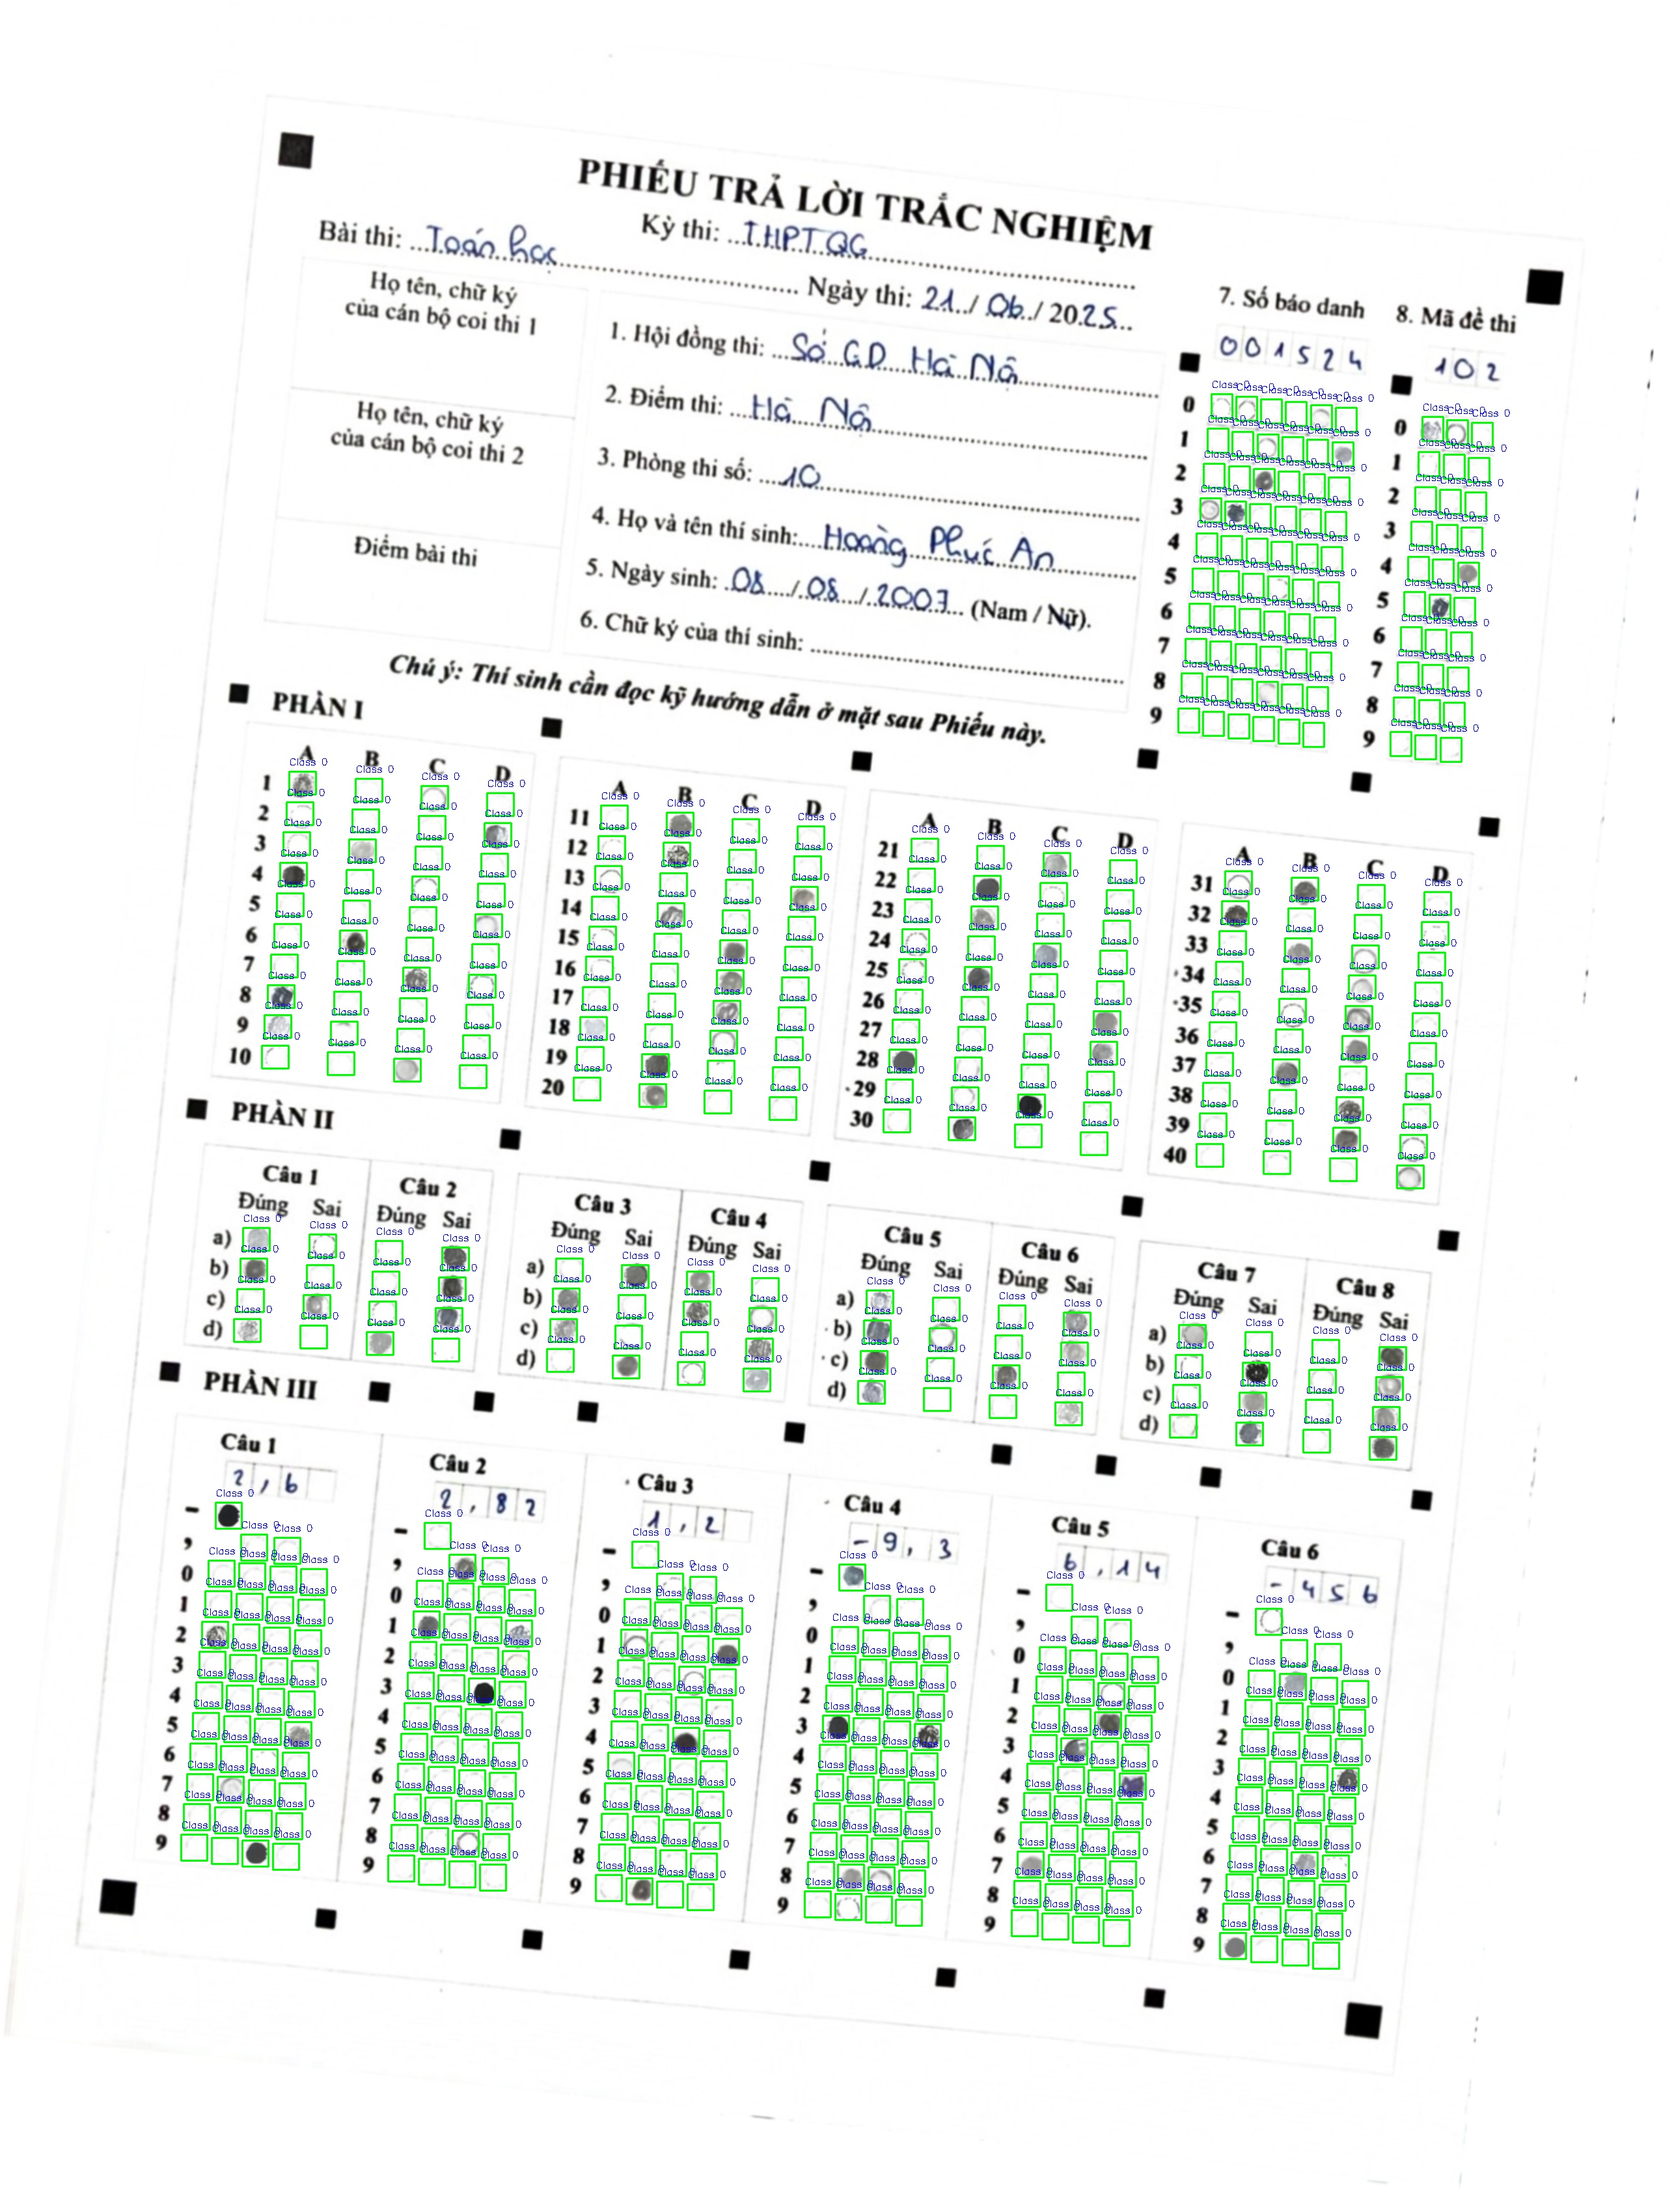
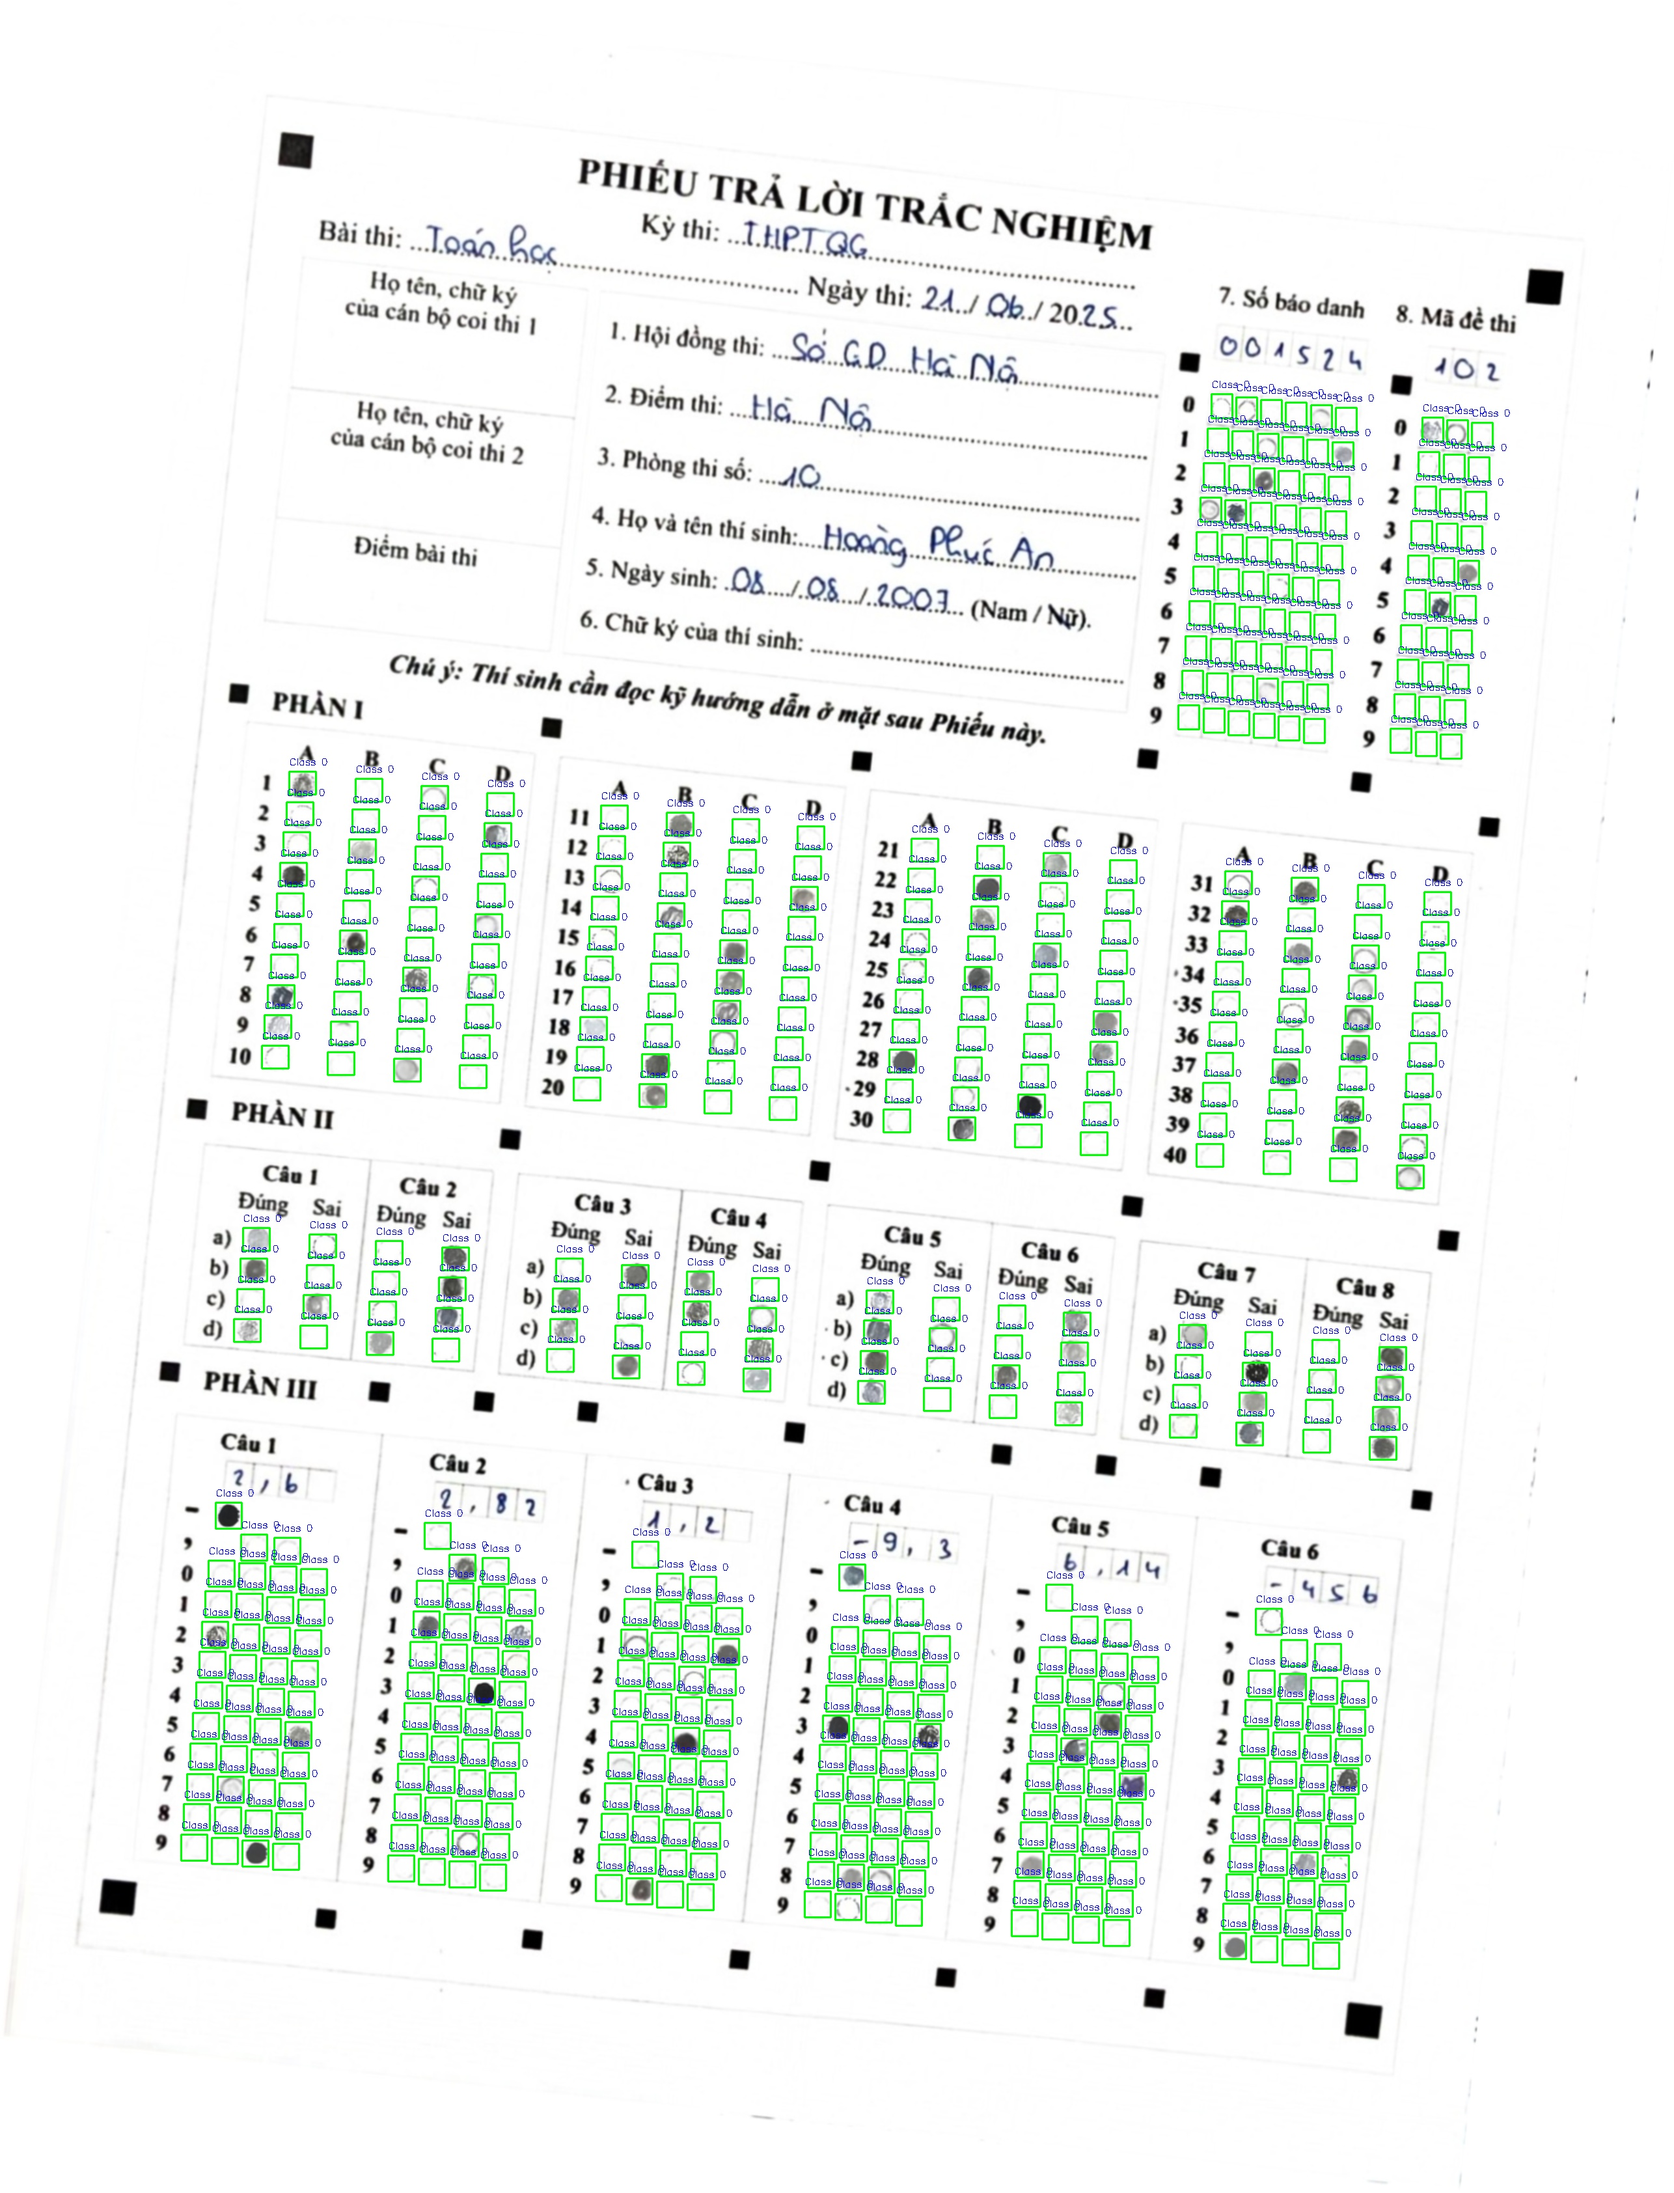
Fix corners bug

Changed region(s): [[0.6843, 0.187, 0.902, 0.3428]]

diff --git a/fixed_coordinates.py b/fixed_coordinates.py
@@ -2,12 +2,13 @@ import cv2
 from detect_black_square import detect_black_square_centers, detect_black_squares
 from preprocess import find_angle, rotate
 from generate_points import add_points_by_region, add_points_by_region_custom, add_points_by_region_three_1, add_points_by_region_two, add_points_by_region_three_2
-from utils import convert_to_yolo_format, save_to_txt, create_matrix, yolo_to_pixel
+from utils import convert_to_yolo_format, save_to_txt, create_matrix, yolo_to_pixel, add_missing_corners
 from draw_black_square import draw_rectangles
 from warp_perspective import warp_perspective_for_detect
 
 def fixed_circle(input_image_path, output_file):
     image = cv2.imread(input_image_path)
+    cv2.imwrite("Image/raw_image.jpg", image)
     height, width = image.shape[:2]
     image_size = (width, height)
     print("Shape: ", image_size)
@@ -16,12 +17,22 @@ def fixed_circle(input_image_path, output_file):
     matrix_coordinate = create_matrix()
 
     corner_squares = detect_black_squares(image, 35, 35)
-    print(len(corner_squares))
-    new_order = [3, 2, 0, 1]
-    corner_squares = [corner_squares[i] for i in new_order]
+    #print(len(corner_squares))
 
     pixel_points = yolo_to_pixel(corner_squares, image_size)
-    print("4 corners old: ", pixel_points)
+    if len(corner_squares) <= 3:
+        pixel_points = add_missing_corners(pixel_points)
+
+    sorted_by_y = sorted(pixel_points, key=lambda t: t[1]) # Sắp xếp danh sách ban đầu theo giá trị y tăng dần
+    group1 = sorted_by_y[:2]  # 2 phần tử có y nhỏ nhất
+    group2 = sorted_by_y[2:]  # Các phần tử còn lại
+
+    group1_sorted = sorted(group1, key=lambda t: t[0])  # x tăng dần
+    group2_sorted = sorted(group2, key=lambda t: t[0], reverse=True)  # x giảm dần
+
+    pixel_points = group1_sorted + group2_sorted
+
+    #print("4 corners old: ", pixel_points)
     pixel_points = [
         (x - 60, y - 60) if i == 0 else 
         (x + 60, y - 60) if i == 1 else 
@@ -29,7 +40,7 @@ def fixed_circle(input_image_path, output_file):
         (x - 60, y + 60)
         for i, (x, y) in enumerate(pixel_points)
     ]
-    print("4 corners new: ", pixel_points)
+    #print("4 corners new: ", pixel_points)
     # draw_rectangles(input_image_path, corner_squares, 20, 20, "Image/Four_corners.jpg")
 
     #centers = detect_black_square_centers(input_image_path)
@@ -61,8 +72,8 @@ def fixed_circle(input_image_path, output_file):
     # centers = detect_black_square_centers(image)
 
     # Add the coordinate of each area
-    final_coordinate, matrix_coordinate = add_points_by_region(image, [29, 28, 23, 24], (0.175, 0.105, 0.0127, 0.011), (10, 6), (0.105, 0.077), centers, final_coordinate, image_size, matrix_coordinate, 0, 0, width, height) # SBD
-    final_coordinate, matrix_coordinate = add_points_by_region_two(image, [28, 29, 24, 23], (0.256, 0.105, 0.0127, 0.011), (10, 3), (0.164, 0.077), centers, final_coordinate, image_size, matrix_coordinate, 0, 1, width, height) #MDT
+    final_coordinate, matrix_coordinate = add_points_by_region(image, [29, 28, 23, 24], (0.175, 0.1055, 0.0127, 0.011), (10, 6), (0.105, 0.076), centers, final_coordinate, image_size, matrix_coordinate, 0, 0, width, height) # SBD
+    final_coordinate, matrix_coordinate = add_points_by_region_two(image, [28, 29, 24, 23], (0.256, 0.1055, 0.0127, 0.011), (10, 3), (0.164, 0.076), centers, final_coordinate, image_size, matrix_coordinate, 0, 1, width, height) #MDT
 
     final_coordinate, matrix_coordinate = add_points_by_region(image, [27, 26, 20, 21], (0.233, 0.2, 0.016, 0.0105), (10, 4), (0.195, 0.063), centers, final_coordinate, image_size, matrix_coordinate, 1, 0, width, height) # Phan1_1
     final_coordinate, matrix_coordinate = add_points_by_region(image, [26, 25, 19, 20], (0.233, 0.2, 0.016, 0.0105), (10, 4), (0.195, 0.063), centers, final_coordinate, image_size, matrix_coordinate, 1, 1, width, height) # Phan1_2

diff --git a/utils.py b/utils.py
@@ -47,6 +47,60 @@ def cut_image_from_points(image, points):
 
     return x_min, y_min, x_max, y_max
 
+def check_corner(corner, index):
+    if index == 0 and corner[0] <= 500 and corner[1] <= 500:
+        return True
+    if index == 1 and corner[0] >= 1500 and corner[1] <= 500:
+        return True
+    if index == 2 and corner[0] >= 1500 and corner[1] >= 1500:
+        return True
+    if index == 3 and corner[0] <= 500 and corner[1] >= 1500:
+        return True
+    return False
+
+def add_missing_corners(corners):
+    ground_truth = [(88, 240), (2125, 240), (2123, 2930), (90, 3000)]
+    corners_local = corners
+    print("Local old: ", corners_local)
+
+    # Top left
+    check = False
+    for corner in corners:
+        if corner[0] <= 500 and corner[1] <= 500:
+            check = True
+            break
+    if check == False:
+        corners_local.append(ground_truth[0])
+
+    # Top right
+    check = False
+    for corner in corners:
+        if corner[0] >= 1500 and corner[1] <= 500:
+            check = True
+            break
+    if check == False:
+        corners_local.append(ground_truth[1])
+
+    # Bottom right
+    check = False
+    for corner in corners:
+        if corner[0] >= 1500 and corner[1] >= 1500:
+            check = True
+            break
+    if check == False:
+        corners_local.append(ground_truth[2])
+
+    # Bottom left
+    check = False
+    for corner in corners:
+        if corner[0] <= 500 and corner[1] >= 1500:
+            check = True
+            break
+    if check == False:
+        corners_local.append(ground_truth[3])
+    print("Local new: ", corners_local)
+    return corners_local
+
 def convert_to_yolo_format(bboxes, img_width, img_height):
     """
     Convert bounding boxes to YOLO format.

diff --git a/generate_points.py b/generate_points.py
@@ -63,8 +63,8 @@ def add_points_by_region(image, idx_list, start_coord, grid_size, cell_spacing, 
 def add_points_by_region_two(image, idx_list, start_coord, grid_size, cell_spacing, centers, final_coordinate, image_size, matrix_coordinate, row, col, width, height):
     points_of_interest = [
         centers[idx_list[0]-1],  # Point 1
-        (centers[idx_list[0]-1][0]+(abs(centers[idx_list[0]-1][0]-centers[idx_list[1]-1][0])*2/3), centers[idx_list[0]-1][1]+(abs(centers[idx_list[0]-1][1]-centers[idx_list[1]-1][1])*2/3)),  # Point 3
-        (centers[idx_list[3]-1][0]+(abs(centers[idx_list[3]-1][0]-centers[idx_list[2]-1][0])*2/3), centers[idx_list[3]-1][1]+(abs(centers[idx_list[3]-1][1]-centers[idx_list[2]-1][1])*2/3)),   # Point 4
+        (centers[idx_list[0]-1][0]+((centers[idx_list[0]-1][0]-centers[idx_list[1]-1][0])*2/3), centers[idx_list[0]-1][1]+((centers[idx_list[0]-1][1]-centers[idx_list[1]-1][1])*2/3)),  # Point 3
+        (centers[idx_list[3]-1][0]+((centers[idx_list[3]-1][0]-centers[idx_list[2]-1][0])*2/3), centers[idx_list[3]-1][1]+((centers[idx_list[3]-1][1]-centers[idx_list[2]-1][1])*2/3)),   # Point 4
         centers[idx_list[3]-1],  # Point 4
     ]
 

diff --git a/test_multiple_image.py b/test_multiple_image.py
@@ -2,7 +2,7 @@ from fixed_coordinates import fixed_circle
 from visualize import draw_boxes_from_txt
 import os
 
-folder_path = r"D:\THO\Bach_Khoa\AI Challenge\Data\testset1\testset1\images"
+folder_path = r"D:\THO\Bach_Khoa\AI Challenge\Data\testset2\images"
 output_file = "test.txt"
 
 with open('error.txt', 'w') as file:
